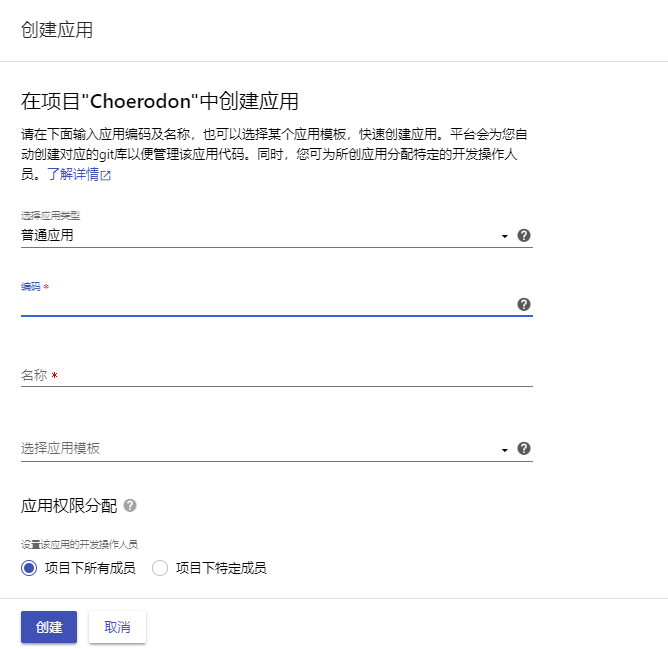
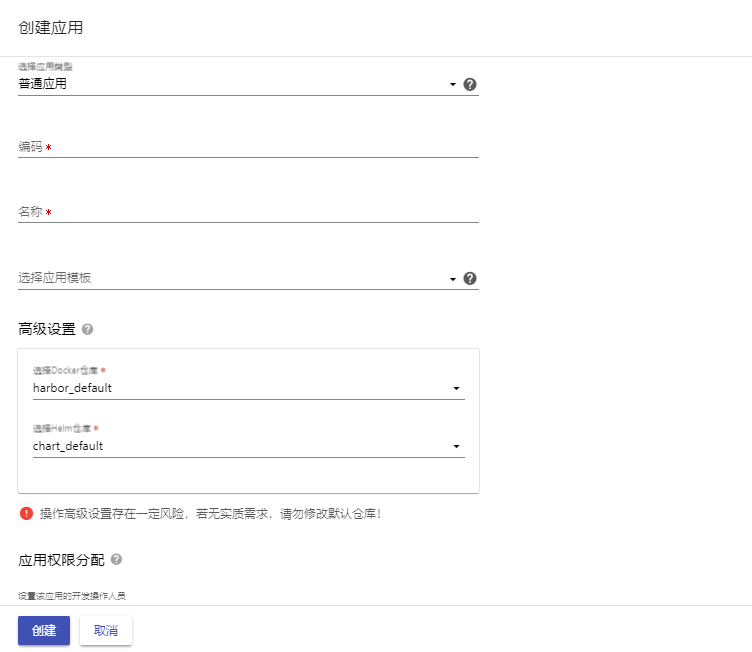
[Add] Add the user-guide of auto-deploy and elements-settings

diff --git a/content/docs/user-guide/application-management/application.md b/content/docs/user-guide/application-management/application.md
@@ -32,7 +32,8 @@ weight = 2
     
     - 应用编码：该字段是必输的，编码只能由小写字母、数字、"-"组成，且以小写字母开头，不能以"-"结尾并且是唯一的。
     - 应用名称：在项目下唯一，不能和其他应用相同。
-    - 应用模板：系统预定义模板或组织自定义的模板，包括：微服务-MicroService；web前端-MicroServiceFront；Java库-JavaLib；Java库-SpringBoot；Go库-GoTemplate；自动化测试Mocha-ChoerodonMochaTemplate。
+    - 应用模板：系统预定义模板或组织自定义的模板，包括：微服务-MicroService；web前端-MicroServiceFront；Java库-JavaLib；Java库-SpringBoot；Go库-GoTemplate；自动化测试Mocha-ChoerodonMochaTemplate。  
+    - 高级设置：创建应用时，系统会给出默认的Helm库与Docker库；若有实质需求，可以在此选择项目下已有的自定义的组件配置。若将默认的Docker仓库改为了自定义的Docker仓库，那么之后此应用生成的镜像均会存放在新的仓库中，但之前的镜像会保留在原来的仓库之中；同理，更改Helm仓库后，之后生成的charts包也将存放在新的Helm仓库之中。
     - 应用权限分配：可选择所有项目成员或者特定项目成员为此应用的的开发人员。一般默认为项目下所有成员，即该项目下所有项目成员都能对此应用进行开发操作；若选择特定项目成员，则只有被勾选的项目成员才有权限在此应用下进行开发。项目所有者默认拥有此项目下所有应用的权限。  
   ![应用权限分配](/docs/user-guide/application-management/image/app-auth.png) 
 
@@ -59,6 +60,7 @@ weight = 2
      - 应用编码：在校验获取到对应的应用后，需要填写此应用的`应用编码`，编码只能由小写字母、数字、"-"组成，且以小写字母开头，不能以"-"结尾并且是唯一的。  
      - 应用名称：在项目下唯一，不能和其他应用名称相同。  
      - 应用模板：系统预定义模板或组织自定义的模板，包括：微服务-MicroService；web前端-MicroServiceUI；Java库-JavaLib；Java库-SpringBoot；Go库-GoTemplate；自动化测试Mocha-ChoerodonMochaTemplate。  
+     - 高级设置：导入应用时，系统会给出此应用默认的Helm库与Docker库；若有实质需求，可以在此选择项目下已有的自定义的组件配置。若将默认的Docker仓库改为了自定义的Docker仓库，那么之后此应用生成的镜像均会存放在新的仓库中，但之前的镜像会保留在原来的仓库内。同理，更改Helm仓库后，之后生成的charts包也将存放在新的Helm仓库之中。  
      - 应用权限分配：可选择所有项目成员或者特定项目成员为此应用的的开发人员。一般默认为项目下所有成员，即该项目下所有项目成员都能对此应用进行开发操作；若选择特定项目成员，则只有被勾选的项目成员才有权限在此应用下进行开发。项目所有者默认拥有此项目下所有应用的权限。    
 
   ![应用权限分配](/docs/user-guide/application-management/image/app-auth.png) 
@@ -69,7 +71,7 @@ weight = 2
  4. 应用导入成功后，可在 Gitlab 中查看已创建的代码库。
 
 <blockquote class="note">
-  - 导入的应用，应用类型默认为普通应用。其次，在导入应用选择应用来源时，若选择了GitLab私库，则需要填写该仓库的私有Token，同时需要至GitLab中去将用户设置里的授权Token设置为允许可读。
+  导入的应用，应用类型默认为普通应用。其次，在导入应用选择应用来源时，若选择了GitLab私库，则需要填写该仓库的私有Token，同时需要至GitLab中去将用户设置里的授权Token设置为允许可读。
 </blockquote>
 
 ## 查看应用详情
@@ -89,7 +91,7 @@ weight = 2
 
 ## 修改应用信息
 
-点击`修改应用`→ ![修改应用按钮](/docs/user-guide/development-pipeline/image/update_app_button.png) 对应用信息进行修改。同时还能对应用的权限进行重新配置。
+点击`修改应用`→ ![修改应用按钮](/docs/user-guide/development-pipeline/image/update_app_button.png) 对应用信息进行修改或者对应用的权限进行重新配置。此外，页面中的高级设置支持修改默认的Docker仓库和Helm仓库为项目下已有的自定义的组件配置，修改后，此应用之后生成的镜像均会存储于新的仓库之中。
 
 ## 停用/启用应用
 

diff --git a/content/docs/user-guide/deployment-pipeline/auto-deploy.md b/content/docs/user-guide/deployment-pipeline/auto-deploy.md
@@ -1,0 +1,80 @@
++++
+title = "自动部署"
+description = "您可在此页面创建与配置自动部署任务，来实现快速部署。"
+weight = 3
++++
+
+# 自动部署
+
+通过配置自动部署流程需要的参数来创建自动部署任务，从而达到可视化和自动化部署的目的。支持多任务并行部署和流水线无缝集成，真正实现了部署过程自动化。
+
+
+  - **菜单层次**：项目层
+  - **菜单路径**：部署流水线 > 自动部署
+  - **默认角色**：项目所有者、项目成员（环境成员）
+  
+    <blockquote class="note">
+      只有项目所有者和被分配环境权限的项目成员才能在此界面创建自动部署任务。
+    </blockquote>
+    	  
+## 创建自动部署  
+![创建自动部署](/docs/user-guide/deployment-pipeline/image/create-auto-deploy.jpg)
+ 
+ 1. 点击 `创建自动部署` ；  
+ 
+ 2. 填写`任务名称`；
+ 
+ 2. 选择`应用`，只可选择此项目下的应用；  
+
+ 3. 输入或选择`应用版本类型`，此处可以选择我们给出的版本类型或手动输入自定义的版本类型。若不填写此栏，则默认自动部署该应用的所有版本；
+
+ 4. 选择`环境`，只可选择运行中的环境，未连接或未被分配权限的环境不可选；
+
+ 5. 选择`部署模式`；（部署模式有新建实例和替换实例两种）
+ 
+    - 新建实例：建立新的实例。选择新建实例后，可在下方对自定义实例的名称；首次执行自动部署任务时，会在所选的环境中生成一个新的实例，而之后的自动部署将会在此实例基础上进行更新与升级。
+
+    - 替换实例：滚动更新所选实例。首先需要满足所选应用在所选环境中存在实例，而选中要替换的目标实例后，后续的自动部署便会直接在此实例上进行更新与升级。   
+ 
+ 7. 确认`配置信息`, 此处会根据您选的应用与环境自动生成默认的配置信息，您可在此基础上进行修改，而之后该任务将会用此信息来进行自动部署。
+
+
+
+## 查看自动部署详情
+ 进`部署流水线`后，点击`自动部署`，进入自动部署界面。通过列表，可以查看到自动部署任务的名称、对应的应用、版本类型、环境以及更新时间；
+ 
+  ![自动部署](/docs/user-guide/deployment-pipeline/image/auto-deploy.jpg)     
+
+
+
+
+## 查看自动部署任务执行记录
+在自动部署界面，点击页面上方的`自动部署记录总览`，便能跳转查看所有自动部署任务的执行记录，包括自动部署任务的名称、每条记录的执行状态、对应的应用、版本类型、环境、生成的实例以及任务的执行时间；而点击列表中每条任务的名称，也可进入查看该条自动部署任务的执行记录。
+ 
+  ![自动部署记录](/docs/user-guide/deployment-pipeline/image/log-auto-deploy.jpg)   
+ 
+ 
+## 编辑自动部署
+点击`编辑自动部署` → ![编辑自动部署按钮](/docs/user-guide/deployment-pipeline/image/update_env_button.png) 来编辑此条自动部署任务，可以编辑修改任务名称、应用、版本类型、环境以及配置信息。 
+![编辑自动部署](/docs/user-guide/deployment-pipeline/image/edit-auto-deploy.jpg)  
+
+
+## 删除自动部署
+
+点击`删除自动部署` → ![删除自动部署按钮](/docs/user-guide/deployment-pipeline/image/del_net_button.png) 来删除此任务。
+
+<blockquote class="warning">
+  仅允许删除停用状态下的自动部署任务
+</blockquote>
+
+
+
+## 更多操作
+- [环境流水线](../environment-pipeline)
+- [应用部署](../application-deployment)
+- [实例管理](../instance)
+
+
+
+
+

diff --git a/content/docs/user-guide/system-configuration/project/elements-settings.md b/content/docs/user-guide/system-configuration/project/elements-settings.md
@@ -1,0 +1,65 @@
++++
+title = "组件设置"
+description = "组件设置用于管理项目下所有的组件配置，目前包括了Helm仓库与Docker仓库。"
+weight = 3
++++
+
+# 组件设置
+
+组件设置用于管理项目下所有的组件配置，目前包括了Helm仓库与Docker仓库。在此创建成功的组件配置可用于项目下所有应用。即在创建应用或者编辑应用时便可以使用高级设置来更改系统预置的Helm仓库与Docker仓库。更改了默认的Docker仓库后，此应用之后生成的镜像均会被存放于目前的Docker仓库内；同理，更改Helm仓库后，之后生成的charts包也将存放在新的Helm仓库之中。
+
+  - **菜单层次**：项目层
+  - **菜单路径**：项目设置 > 组件设置
+  - **默认角色**：项目所有者
+  
+    <blockquote class="note">
+    系统预设的组件配置不可进行操作
+    </blockquote>
+    	  
+## 创建组件配置
+
+ 1. 点击 `创建组件配置` ；  
+ 
+ 2. 选择`组件配置类型`，目前可选择Docker仓库和Helm仓库；
+
+
+  - Docker仓库：选择了Docker仓库后，需要填写该仓库的的名称（项目下唯一且不超过10个字符）、地址、有推拉代码权限的用户名和密码及其对应的邮箱。至于最后的Harbor project的填写，若您想将之后生成的镜像存放于Docker仓库里已有的project中，则在此填入对应的Harbor project名称即可。若不填，则默认在此仓库中新建一个Harbor project用于存放之后的镜像。  
+  ![创建Docker仓库](/docs/user-guide/system-configuration/project/image/create-elements-docker.jpg)
+
+  - Helm仓库：选择了Helm仓库后，只需填写该仓库的的名称（项目下唯一且不超过10个字符）与地址。  
+  ![创建Helm仓库](/docs/user-guide/system-configuration/project/image/create-elements-helm.jpg)
+
+  
+   <blockquote class="warning"> 填写完成后，建议先点击页面下方的`测试连接`按钮以确保所填信息无误。测试连接成功后，才能成功创建对应的组件配置。 </blockquote>
+
+
+## 查看组件配置列表
+ 在`项目设置`模块，点击`组件设置`，进入组件设置的主界面。通过列表，可以查看到此项目下所有的自定义组件配置和系统预置组件配置及其相关的信息，其中包括了组件配置类型、名称、地址与来源。
+ 
+  ![组件配置](/docs/user-guide/system-configuration/project/image/elements.jpg)
+
+
+ 
+## 编辑组件配置
+点击`编辑组件配置` → ![编辑组件配置按钮](/docs/user-guide/deployment-pipeline/image/update_env_button.png) 来编辑对应的组件配置。在组件配置的编辑界面，除了组件固有的组件配置类型不可修改，其他的信息均可修改。修改后，只有通过测试连接后才能成功保存。  
+
+![编辑组件配置](/docs/user-guide/system-configuration/project/image/edit-elements.jpg)  
+
+
+## 删除组件配置
+
+点击`删除组件配置` → ![删除组件配置按钮](/docs/user-guide/deployment-pipeline/image/del_net_button.png) 来删除列表中的自定义的组件配置。
+
+<blockquote class="warning">
+  仅允许删除没有关联应用的自定义组件配置。
+</blockquote>
+
+
+
+## 更多操作
+- [项目管理](../../tenant/project)
+- [项目角色分配](../role-assignment)
+
+
+
+

diff --git a/content/docs/user-guide/system-configuration/project/pro_info.md b/content/docs/user-guide/system-configuration/project/pro_info.md
@@ -28,8 +28,8 @@ description = "进入一个项目后，可以修改项目信息和停用项目"
 
 
 
-- 项目名称:可以对项目的名称进行修改。
-- 项目编码是项目的标识，不可修改。
+- 项目名称：可以对项目的名称进行修改。
+- 项目编码：是项目的标识，不可修改。
 - 项目类型：可以修改此项目的类型。
 - 项目头像：可以修改项目的头像，更好的标识您的项目。
 

diff --git a/content/docs/user-guide/system-configuration/project/_index.md b/content/docs/user-guide/system-configuration/project/_index.md
@@ -11,8 +11,8 @@ weight = 6
 - 在项目层界面中，进入“项目设置”界面。
 - 需要了解如何[创建项目](..//tenant/project)。
 
-
 {{< docdir >}}
+
 
 ## 更多操作
 - [平台设置](..//platform)
